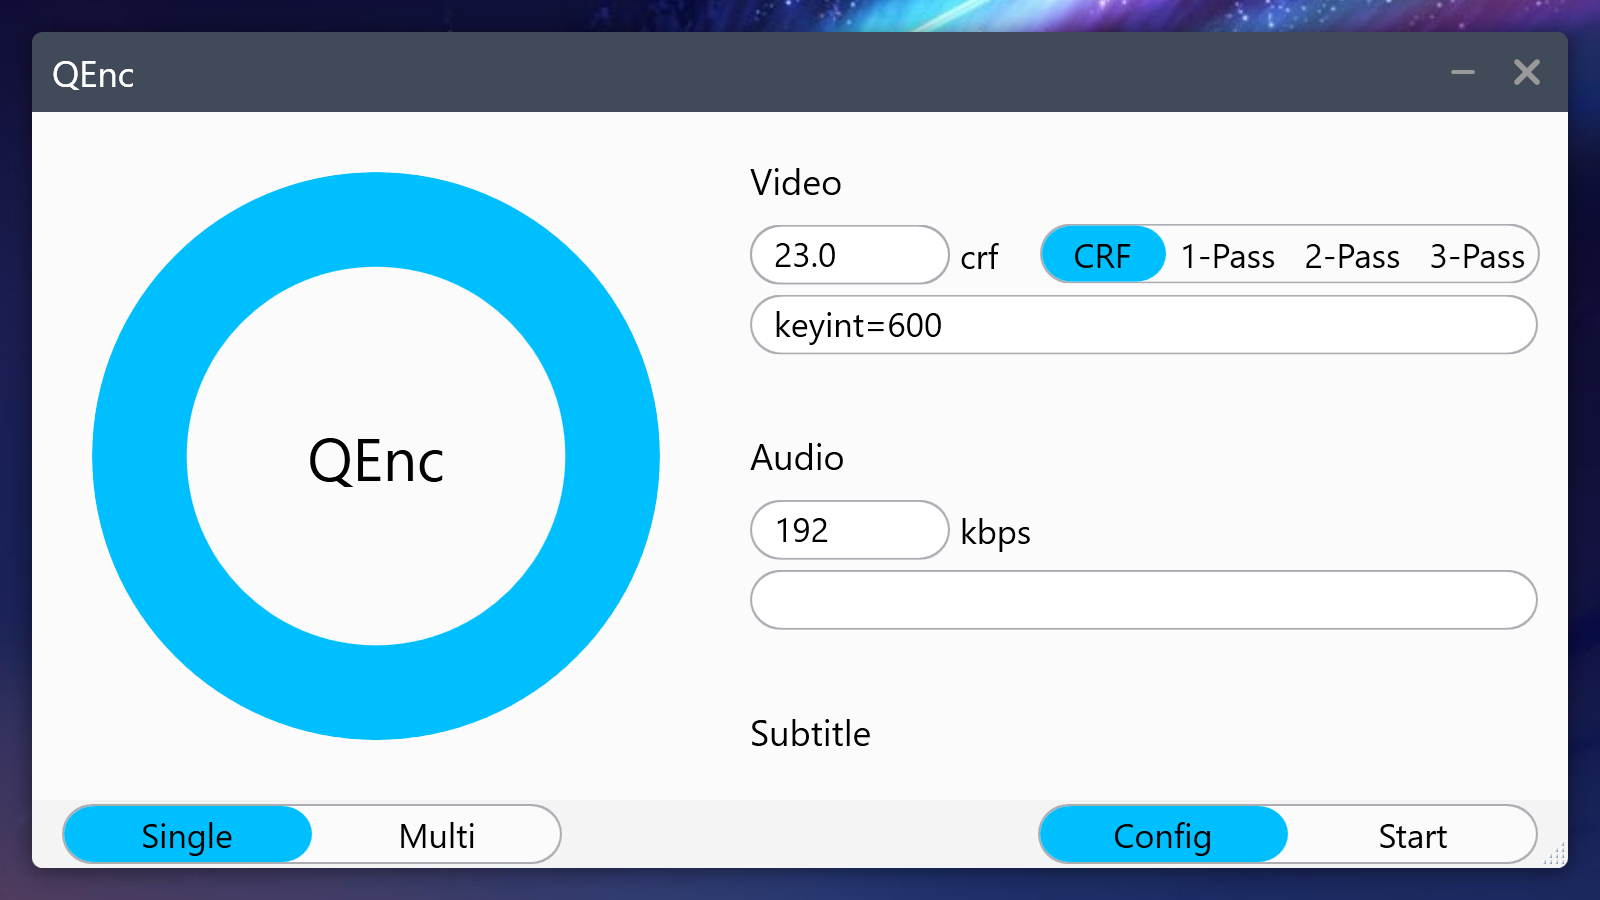
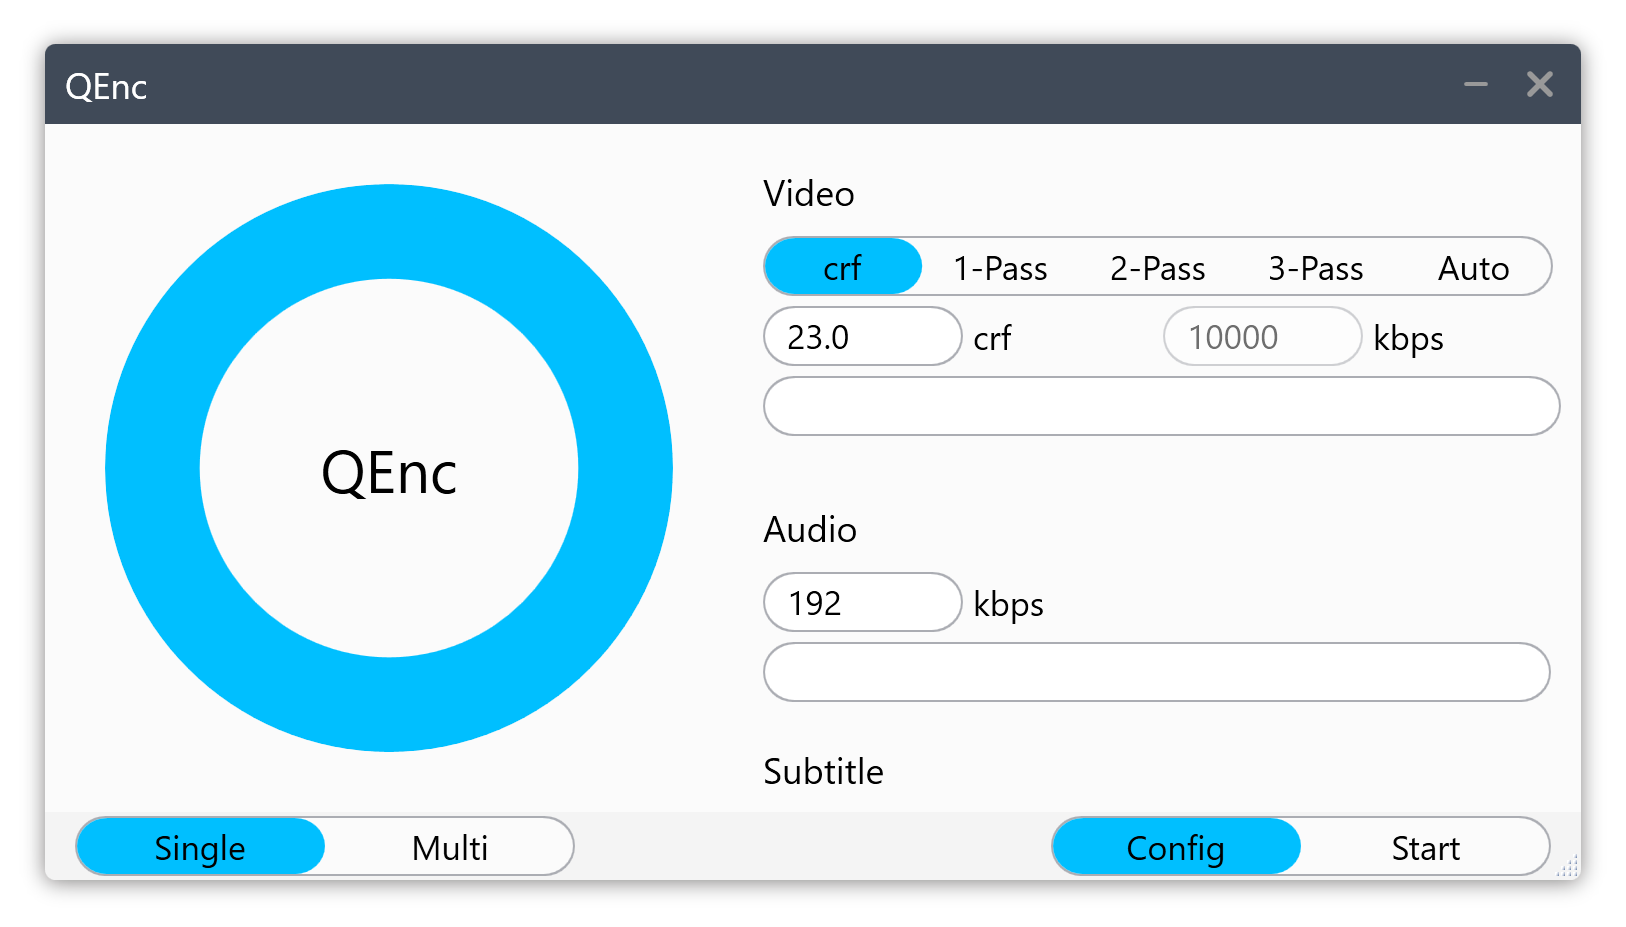
v1.1

diff --git a/QEnc/QEncInfo/Properties/AssemblyInfo.cs b/QEnc/QEncInfo/Properties/AssemblyInfo.cs
@@ -32,5 +32,5 @@ using System.Runtime.InteropServices;
 // You can specify all the values or you can default the Build and Revision Numbers
 // by using the '*' as shown below:
 // [assembly: AssemblyVersion("1.0.*")]
-[assembly: AssemblyVersion("1.0.0.0")]
-[assembly: AssemblyFileVersion("1.0.0.0")]
+[assembly: AssemblyVersion("1.1.0.0")]
+[assembly: AssemblyFileVersion("1.1.0.0")]

diff --git a/QEnc/GZCompressor/Properties/AssemblyInfo.cs b/QEnc/GZCompressor/Properties/AssemblyInfo.cs
@@ -51,5 +51,5 @@ using System.Windows;
 // You can specify all the values or you can default the Build and Revision Numbers
 // by using the '*' as shown below:
 // [assembly: AssemblyVersion("1.0.*")]
-[assembly: AssemblyVersion("1.0.0.0")]
-[assembly: AssemblyFileVersion("1.0.0.0")]
+[assembly: AssemblyVersion("1.1.0.0")]
+[assembly: AssemblyFileVersion("1.1.0.0")]

diff --git a/QEnc/QEnc/Properties/AssemblyInfo.cs b/QEnc/QEnc/Properties/AssemblyInfo.cs
@@ -51,5 +51,5 @@ using System.Windows;
 // You can specify all the values or you can default the Build and Revision Numbers
 // by using the '*' as shown below:
 // [assembly: AssemblyVersion("1.0.*")]
-[assembly: AssemblyVersion("1.0.0.0")]
-[assembly: AssemblyFileVersion("1.0.0.0")]
+[assembly: AssemblyVersion("1.1.0.0")]
+[assembly: AssemblyFileVersion("1.1.0.0")]

diff --git a/QEnc/QEncLogReader/Properties/AssemblyInfo.cs b/QEnc/QEncLogReader/Properties/AssemblyInfo.cs
@@ -51,5 +51,5 @@ using System.Windows;
 // You can specify all the values or you can default the Build and Revision Numbers
 // by using the '*' as shown below:
 // [assembly: AssemblyVersion("1.0.*")]
-[assembly: AssemblyVersion("1.0.0.0")]
-[assembly: AssemblyFileVersion("1.0.0.0")]
+[assembly: AssemblyVersion("1.1.0.0")]
+[assembly: AssemblyFileVersion("1.1.0.0")]

diff --git a/README.md b/README.md
@@ -36,15 +36,19 @@ Right click to remove the Loaded file
 
 Left click to switch the processing mode between use encoder and copy stream
 
-## About config
+## About Config
 
-The first line of both Video config and Audio config is the quality. The second line of the Video config is the additional parameters pass to the X264 encoder. (Use the format "[Name1]=[Value1]:[Name2]=[Value2]...") However, the second line of Audio config is reserved.
+The first line of Video config is how the video is encoded (*Auto* implies using crf as the 1st pass, and using vbr as the second pass if the bitrate is over the set bitrate after the 1st pass). The second line of Video config and the first line of Audio config is the quality. The third line of the Video config is the additional parameters pass to the X264 encoder. (Use the format "[Name1]=[Value1]:[Name2]=[Value2]...") However, the second line of Audio config is reserved currently.
 
-## About queue
+## About Queue
 
 Click *Multi* button to expand Queue panel (It also affect the process mode when you click the *Start* button). Click *Queue* button to add current config into the queue. Click *Not queue* button to remove.
 
 Attention: Once you add a config to the queue you can not change it any more.
+
+## About Preset
+
+Drag the preset file onto the executable and run QEnc to load the preset.
 
 
 
@@ -83,10 +87,14 @@ QEnc是一种基于拖放操作的视频压制和封装工具
 
 ## 关于配置
 
-视频配置和音频配置的第一行是质量。 视频配置的第二行是传递给X264编码器的附加参数。 （使用格式"[Name1]=[Value1]:[Name2]=[Value2]..."）然而，音频配置的第二行是预留的。
+视频配置的第一行是视频的编码方式（“自动”意味着使用crf作为第一遍处理，如果比特率在第一遍处理之后超过设定的比特率，则使用vbr作为第二遍处理）。视频配置的第二行和音频配置的第一行是质量。 视频配置的第三行是传递给X264编码器的附加参数。 （使用格式"[Name1]=[Value1]:[Name2]=[Value2]..."）然而，音频配置的第二行目前是预留的。
 
 ## 关于队列
 
 单击“多个”按钮以展开“队列”面板（单击“开始”按钮时，它也会影响过程模式）。 单击“队列”按钮将当前配置添加到队列中。 单击“未队列”按钮以删除。
 
 注意：将配置添加到队列后，您无法再进行更改。
+
+## 关于预设
+
+将预设文件拖到可执行文件上并运行QEnc以加载预设。
